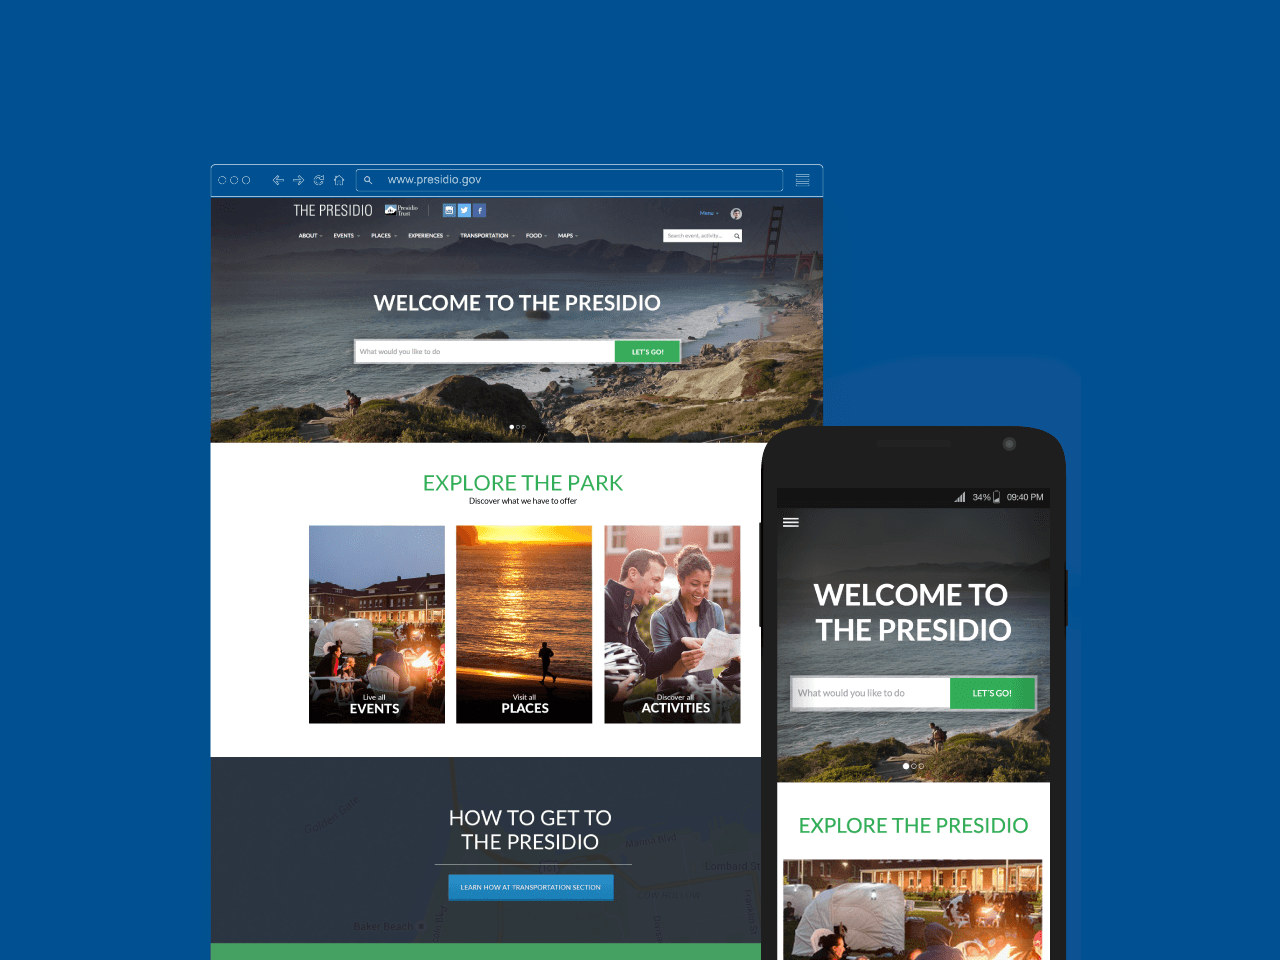
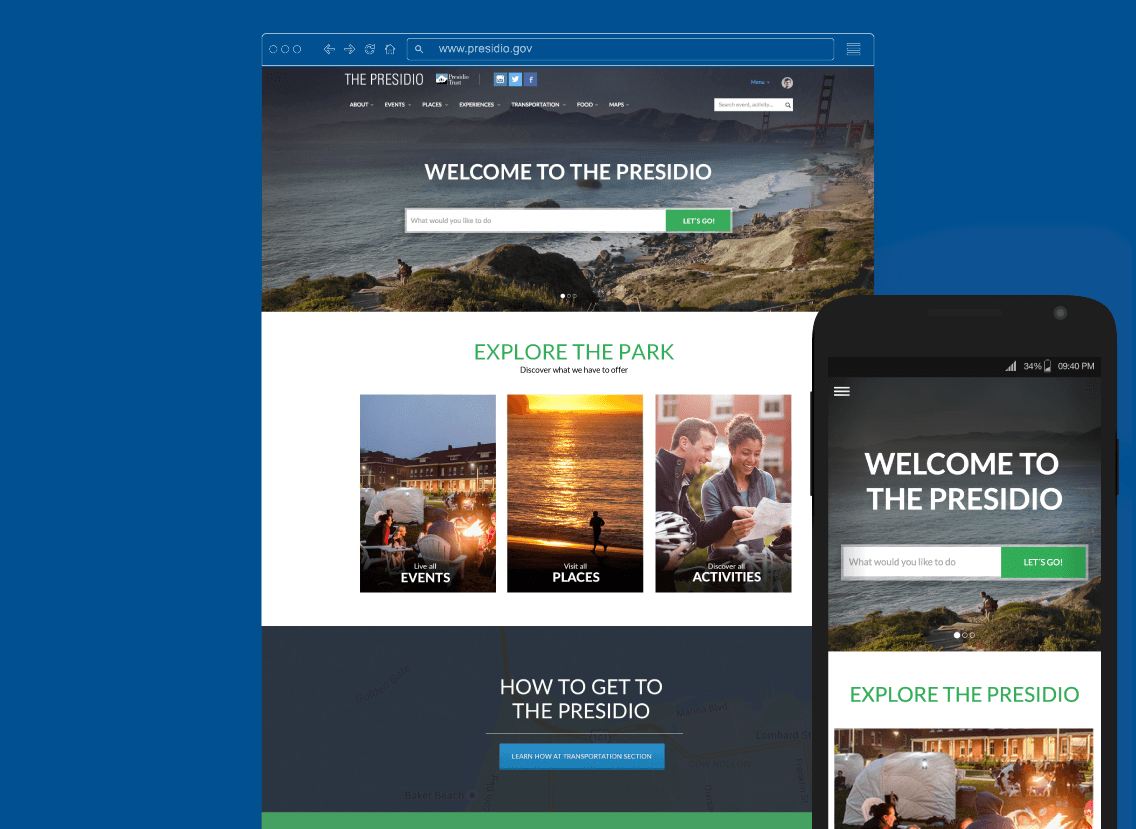
Presidio Update

diff --git a/presidio.html b/presidio.html
@@ -1,0 +1,115 @@
+<!doctype html>
+<html class="no-js" lang="">
+<head><script src="https://cdn.optimizely.com/js/8233560081.js"></script>
+  <meta name="viewport" content="width=device-width, initial-scale=1">
+  <meta charset="utf-8">
+  <meta http-equiv="x-ua-compatible" content="ie=edge">
+  <title>Presidio National Park</title>
+  <meta name="description" content="">
+  <meta name="viewport" content="width=device-width, initial-scale=1">
+  <link rel="stylesheet" href="css/bootstrap-min.css" type="text/css" media="all">
+  <link rel="stylesheet" href="css/style.css">
+  <link href="https://fonts.googleapis.com/css?family=Source+Sans+Pro:300,400,600" rel="stylesheet">
+  
+</head>
+<body class="">
+  <section class="hero presidio_blue p0">
+    <header class="mb0 white_text">
+      <h1>Presidio National Park</h1>
+      <p class="lead col-md-8 col-center white_text"> The Presidio of San Francisco is a national park in San Francisco, California which were looking to redesign their website.</p>
+      <img class="img_center" src="img/presidio_1.png" alt="">
+    </header>
+  </section>
+  <section class="overview">
+    <div class="col-sm-8 col-center">
+      <header class="tac ">
+        <h2 class="edu_blue text-bold">My job at Presidio</h2>
+        <p class="leady strong">To redesign its digital strategy to make the park an attractive place to visit. Our main objectives were to increase lead generation and park visits.
+        </p>
+      </header>
+      <h4>Previous version</h4>
+      <p>Too complicated, cluttered with text, small images, information hard to find. Presidio is a lot of things and talked to too many actors: New users, returning users, educators and educators, people interested in real state, Need to simplify it.
+      </p>    </div>
+
+    </section>
+    <section class="lan_bg_light_blue">
+      <header>
+        <h2 class="edu_blue">Example of A/B tests</h2>
+      </header>
+      <div class="col-sm-8 col-center">
+        <ul class="no_disc">
+          <li class="mb96">
+            <h4 class="fwb">1. Site navigation was chaotic. Opening a menu may result in seeing a huge list of menu items. Too many options to pick.</h4>
+            <p>
+              <b>- Solution:</b> Card sorting was used to prioritize choices available and cut them down. A/B testing was performed with the two versions of the menu. In the “B” version. Big lists were only kept in Landing Pages were Presidio could make
+              use of imaginery and copy to explain in a more organized way which were visitors options. .
+            </p>
+            <p>
+              <b>- Results:</b>Bounce rate of pages coming from the menu navigation was reduced. More users found what they were looking for. Heatmap also showed an increase in menu navigation use.</p>
+            </li>
+            <li class="mb96">
+              <h4 class="fwb">2. Analytics showed that Home page bounce rate while lowered after first redesign, it remained quite high. Events were relevant for the client but in HP showed a low click rate.</h4>
+
+              <p><b>- Hypothesis:</b> The original layout order doesnt help for conversion. Events is the most urgent kind of information so they need to go first.</p>
+              <p><b>- Results:</b> Events attendance convertion rate was increased. Landing page bounce rate decreased probably because users realize quicker that they were new updated content to look at.</p>
+            </li>
+            <li class="mb96">
+              <h4 class="fwb">3. Headlines optimization.</h4>
+              <p>
+                <b>- Hypothesis:</b> User are going to understand headlines easier and faster if they are written in a simpler language.
+
+                <p><b>- Experiment:</b> Improve mobile layout, simplify it by removing irrelevant elements and make courses easier to buy. Add button to save course as bookmark to check later and a notification badge to remind users when they use their desktop
+                  account.
+                </p>
+                <p>
+                  <b>- Fact:</b> Bounce rate decreased in mobile and sharing events increased. But sales did not show a relevant increase.
+                </p>
+                <p>
+                  <b>- Conclusion:</b> User survey showed that obvious always win. Simpler title like “Things to do” were prefered over “Experiences”.
+                </li>
+                <li class="mb96">
+                  <h4 class="fwb">4. Landing page images optimization</h4>
+                  <p><b>- Hypothesis:</b> Images with people attract more public than images showing a natural landscape with no one around, specially for events. A National Park can be a happy buzzing place to go. (Kid sells).
+                  </p>
+                  <p><b>- Results: </b>Click rates increased for events with those kinds of images. Client was advised to take results as a rule and instruct employees to choose images for events showing the park as a buzzy place.</p>
+                </li>
+                <li class="mb96">
+                  <h4 class="fwb">5. How can we increase event attendance and therefore visitors amount?:</h4>
+                  <p><b>- Fact:</b> Even though Presidio events are free, they require users to reserve their seats. At first moment, price was included because they were simple no price at all.</p>
+                  <p><b>- Hypothesis:</b> Mentioning that events are free increases the click and conversion rate.</p>
+                  <p>Suscription boxes different versions: Popups, notification at bottom, sticky dialog.
+                  </p>
+                </li>
+                <li class="mb96">
+                  <h4 class="fwb">6. Analytics showed that Transportation was one of the most visited pages.</h4>
+                  <p><b>- Hypothesis:</b> We can use Transportation large number of pageviews to redirect users to other sections of the website.</p>
+                  <p><b>- Hypothesis:</b> Mentioning that events are free increases the click and conversion rate.</p>
+                  <p>Suscription boxes different versions: Popups, notification at bottom, sticky dialog.
+                  </p>
+                </li>
+              </ul </div>
+            </section>
+            <section class="course_page presidio_blue">
+              <img class="img_center mb96" src="img/presidio_2.png" alt="" />
+              <img class="img_center mb96" src="img/presidio_3.png" alt="" />
+              <img class="img_center mb96" src="img/presidio_4.png" alt="" />
+              <img class="img_center mb96" src="img/presidio_5.png" alt="" />
+              <img class="img_center mb96" src="img/presidio_6.png" alt="" />
+              <img class="img_center mb96" src="img/presidio_7.png" alt="" />
+              <img class="img_center mb96" src="img/presidio_8.png" alt="" />
+              <img class="img_center mb96" src="img/presidio_9.png" alt="" />
+            </section>
+            <div class="thanks_container">
+              <img src="img/thank_you_dark.png" alt="">
+            </div>
+            <script src="https://cdnjs.cloudflare.com/ajax/libs/jquery/3.1.1/jquery.min.js"></script>
+            <script src="js/script.js"></script>
+            <script>
+              (function(i,s,o,g,r,a,m){i['GoogleAnalyticsObject']=r;i[r]=i[r]||function(){
+                (i[r].q=i[r].q||[]).push(arguments)},i[r].l=1*new Date();a=s.createElement(o),
+                m=s.getElementsByTagName(o)[0];a.async=1;a.src=g;m.parentNode.insertBefore(a,m)
+              })(window,document,'script','https://www.google-analytics.com/analytics.js','ga');
+              ga('create', 'UA-91032335-1', 'auto');
+              ga('send', 'pageview');
+            </script>
+          </body>

diff --git a/css/_colors.scss b/css/_colors.scss
@@ -1,150 +1,154 @@
 /*Colors*/
 
 .purple {
-	background: #3f51b5;
+background: #3f51b5;
 }
 
 .tile {
-	background: #37474f;
+background: #37474f;
 }
 
 .green {
-	background: #075e48;
+background: #075e48;
 }
 
 .lan {
-    background: #1d1f69;}
+background: #1d1f69;}
 
 .ara {
-	background: #005292;
+background: #005292;
 }
 
 .presidio {
-	background: #204e90;
+background: #204e90;
+}
+
+.presidio_blue{
+background: #095490;
 }
 
 .purple {
-	background-color: #2e1059;
+background-color: #2e1059;
 }
 
 .purple_light {
-	background-color: #eff3f5;
+background-color: #eff3f5;
 }
 
 .lan_bg_dark_blue {
-	background: #091b46;
+background: #091b46;
 }
 
 .lan_bg_light_blue {
-	background: #dee8f7;
+background: #dee8f7;
 }
 
 .bg_cyan {
-	background-color: #dcf1f7;
+background-color: #dcf1f7;
 }
 
 .tt_bg_dark_purple {
-	background: #2e1059;
+background: #2e1059;
 }
 
 .tt_bg_dark_purple-2 {
-	background: #3d0f82
+background: #3d0f82
 }
 
 .edu_bg_blue {
-	background-color: #4D61E1;
+background-color: #4D61E1;
 }
 
 .edu_bg_dark_blue {
-	background-color: #3a49a9;
+background-color: #3a49a9;
 }
 
 .edu_bg_light_blue {
-	background-color: #f6f6fd;
+background-color: #f6f6fd;
 }
 
 .light_text {
-	font-weight: 300!important;
+font-weight: 300!important;
 }
 
 
 .lan_dark_blue {
-	color: #091b46!important
+color: #091b46!important
 }
 
 
 .tt-dark_purple-2 {
-	color: #3d0f82
+color: #3d0f82
 }
 
 
 .edu_blue {
-	color: #4D61E1!important;
+color: #4D61E1!important;
 }
 
 .edu_light_blue {
-	color: #f6f6fd;
+color: #f6f6fd;
 }
 
 .edu_purple {
-	color: #68408f;
+color: #68408f;
 }
 
 .edu_gradient {
-	background: rgba(77, 97, 225, 1);
-	background: -moz-linear-gradient(top, rgba(77, 97, 225, 1) 0%, rgba(105, 64, 142, 1) 100%);
-	background: -webkit-gradient(left top, left bottom, color-stop(0%, rgba(77, 97, 225, 1)), color-stop(100%, rgba(105, 64, 142, 1)));
-	background: -webkit-linear-gradient(top, rgba(77, 97, 225, 1) 0%, rgba(105, 64, 142, 1) 100%);
-	background: -o-linear-gradient(top, rgba(77, 97, 225, 1) 0%, rgba(105, 64, 142, 1) 100%);
-	background: -ms-linear-gradient(top, rgba(77, 97, 225, 1) 0%, rgba(105, 64, 142, 1) 100%);
-	background: linear-gradient(to bottom, rgba(77, 97, 225, 1) 0%, rgba(105, 64, 142, 1) 100%);
+background: rgba(77, 97, 225, 1);
+background: -moz-linear-gradient(top, rgba(77, 97, 225, 1) 0%, rgba(105, 64, 142, 1) 100%);
+background: -webkit-gradient(left top, left bottom, color-stop(0%, rgba(77, 97, 225, 1)), color-stop(100%, rgba(105, 64, 142, 1)));
+background: -webkit-linear-gradient(top, rgba(77, 97, 225, 1) 0%, rgba(105, 64, 142, 1) 100%);
+background: -o-linear-gradient(top, rgba(77, 97, 225, 1) 0%, rgba(105, 64, 142, 1) 100%);
+background: -ms-linear-gradient(top, rgba(77, 97, 225, 1) 0%, rgba(105, 64, 142, 1) 100%);
+background: linear-gradient(to bottom, rgba(77, 97, 225, 1) 0%, rgba(105, 64, 142, 1) 100%);
 }
 
 .row.overlay_layer {
-	position: relative;
-	bottom: 30vh;
-	margin-bottom: -20vh;
+position: relative;
+bottom: 30vh;
+margin-bottom: -20vh;
 }
 
 .row.overlay_layer:before {
-	width: 100%;
-	height: 100%;
-	background: red;
-	position: absolute;
-	display: block;
-	bottom: 5vh;
-	background: rgba(240, 248, 255, 1);
-	background: -moz-linear-gradient(top, rgba(240, 248, 255, 0) 0%, rgba(240, 248, 255, 1) 80%);
-	background: -webkit-gradient(left top, left bottom, color-stop(0%, rgba(240, 248, 255, 0)), color-stop(80%, rgba(240, 248, 255, 1)));
-	background: -webkit-linear-gradient(top, rgba(240, 248, 255, 0) 0%, rgba(240, 248, 255, 1) 80%);
-	background: -o-linear-gradient(top, rgba(240, 248, 255, 0) 0%, rgba(240, 248, 255, 1) 80%);
-	background: -ms-linear-gradient(top, rgba(240, 248, 255, 0) 0%, rgba(240, 248, 255, 1) 80%);
-	background: linear-gradient(to bottom, rgba(240, 248, 255, 0) 0%, rgba(240, 248, 255, 1) 80%);
+width: 100%;
+height: 100%;
+background: red;
+position: absolute;
+display: block;
+bottom: 5vh;
+background: rgba(240, 248, 255, 1);
+background: -moz-linear-gradient(top, rgba(240, 248, 255, 0) 0%, rgba(240, 248, 255, 1) 80%);
+background: -webkit-gradient(left top, left bottom, color-stop(0%, rgba(240, 248, 255, 0)), color-stop(80%, rgba(240, 248, 255, 1)));
+background: -webkit-linear-gradient(top, rgba(240, 248, 255, 0) 0%, rgba(240, 248, 255, 1) 80%);
+background: -o-linear-gradient(top, rgba(240, 248, 255, 0) 0%, rgba(240, 248, 255, 1) 80%);
+background: -ms-linear-gradient(top, rgba(240, 248, 255, 0) 0%, rgba(240, 248, 255, 1) 80%);
+background: linear-gradient(to bottom, rgba(240, 248, 255, 0) 0%, rgba(240, 248, 255, 1) 80%);
 }
 
 section.task_creation {
-	background: aliceblue;
+background: aliceblue;
 }
 
 .bg_grid {
-	background-image: url("../img/grid_black.png");
-	background-repeat: round;
-	background-size: 8.333333333%;
+background-image: url("../img/grid_black.png");
+background-repeat: round;
+background-size: 8.333333333%;
 }
 
 .shadow {
-	box-shadow: 0px 40px 80px rgba(31, 29, 29, 0.28);
+box-shadow: 0px 40px 80px rgba(31, 29, 29, 0.28);
 }
 
 .shadow_light {
-	box-shadow: 0px 30px 80px rgba(31, 29, 29, 0.1);
+box-shadow: 0px 30px 80px rgba(31, 29, 29, 0.1);
 }
 
 .shadow_blue {
-	box-shadow: 0px 40px 60px rgb(235, 237, 249)
+box-shadow: 0px 40px 60px rgb(235, 237, 249)
 }
 
 .teal {
-	background: #2e3b42;
+background: #2e3b42;
 }
 

diff --git a/css/style.css b/css/style.css
@@ -742,6 +742,10 @@ header.mini_header {
   background: #204e90;
 }
 
+.presidio_blue {
+  background: #095490;
+}
+
 .purple {
   background-color: #2e1059;
 }
